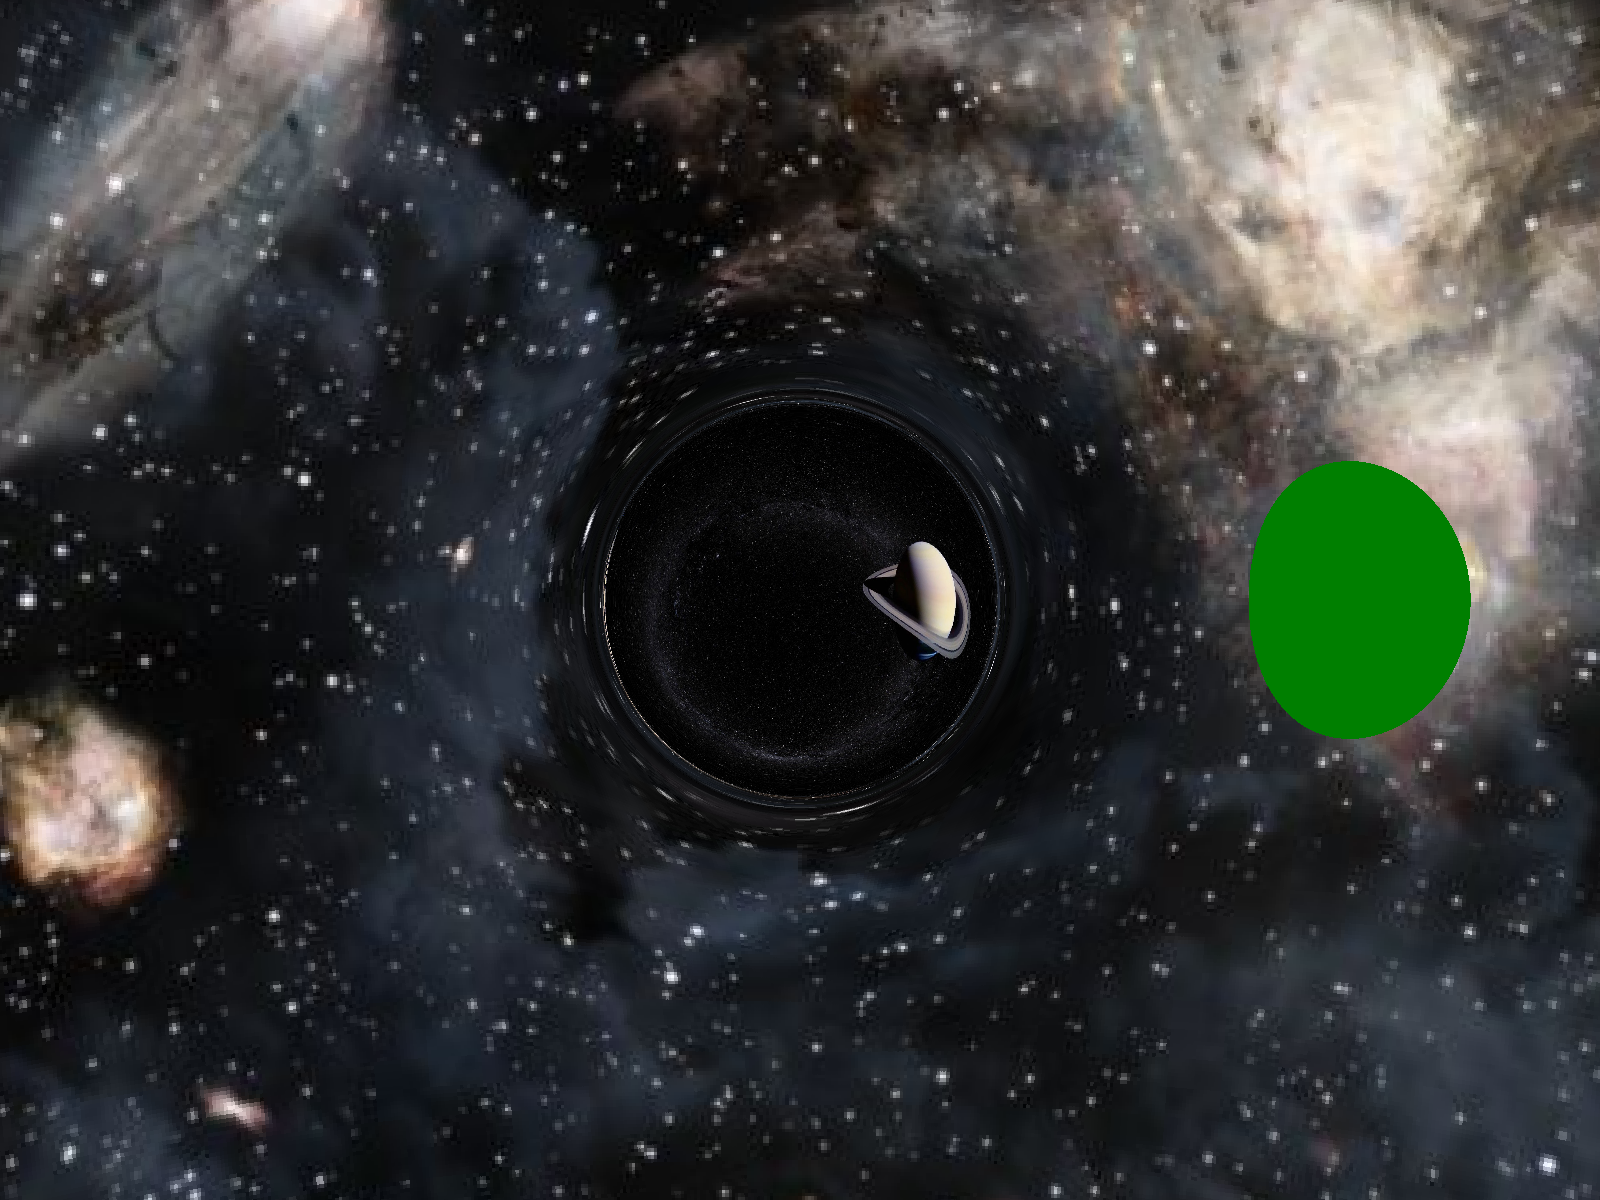
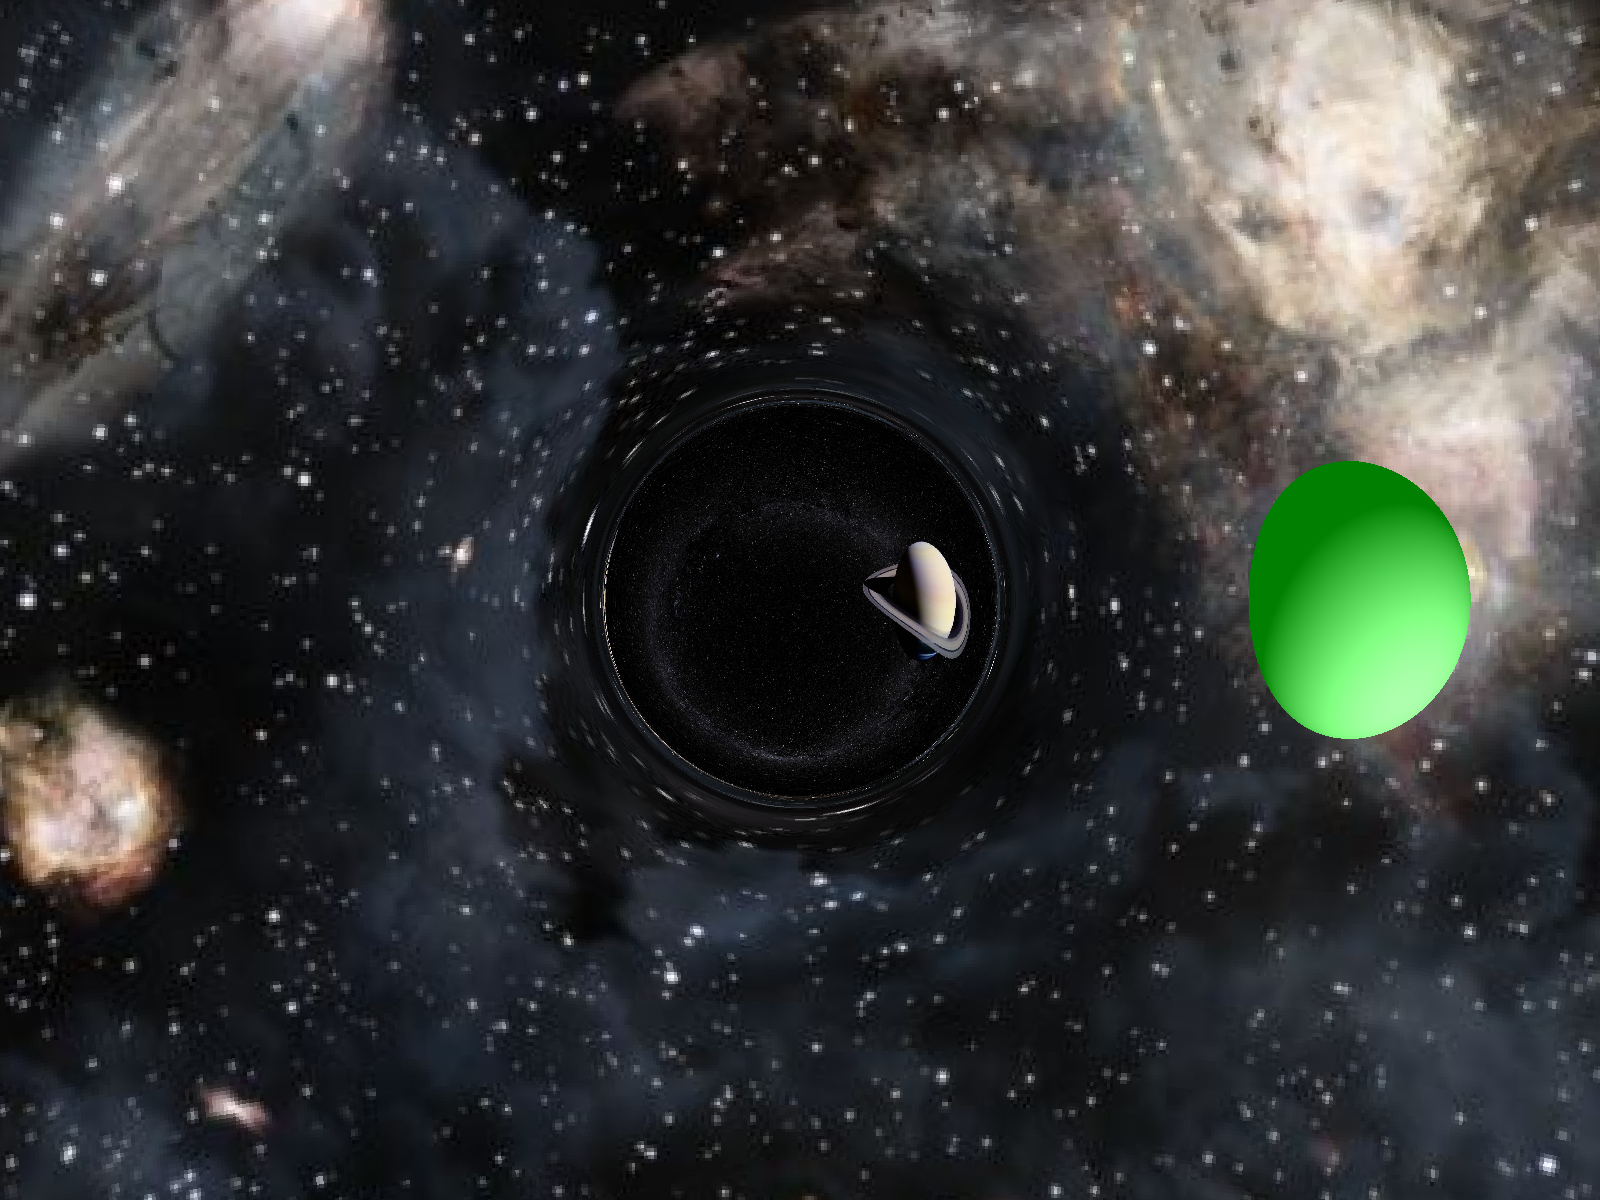
.

Changed region(s): [[0.7812, 0.4317, 0.9375, 0.6167]]

diff --git a/src/main.cpp b/src/main.cpp
@@ -97,7 +97,7 @@ int main(int argc, char *argv[]) {
     SphereData sphereData{spherePos, 0.5, -length(spherePos)};
 
     // make point light
-    SceneLightData light{LightType::LIGHT_POINT, glm::vec4(1.0), glm::vec3(1.0), glm::vec4(0.0, 2.0, 3.0, -1.0), glm::vec3(0.0, 0.0, -1.0), 1.0, 1.0};
+    SceneLightData light{LightType::LIGHT_POINT, glm::vec4(1.0), glm::vec3(0.8, 0.05, 0.0), glm::vec4(10.0, 2.0, 10.0, -1.0), glm::vec3(-1.0, 0.0, -1.0), 1.0, 1.0};
 
     // 4. Render using FOV from config (scene.viewPlaneWidthAngle is in radians)
     render(framebuffer,
